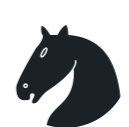
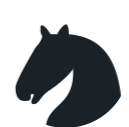
removed liches horse outline, playing with spacing

diff --git a/style.css b/style.css
@@ -166,6 +166,6 @@ div.a > button {
 div.a > a > img {
   float: right;
   margin-top: 85px;
-  width: 35px;
-  padding-left: 8px;
+  width: 40px;
+  padding-left: 10px;
 }
